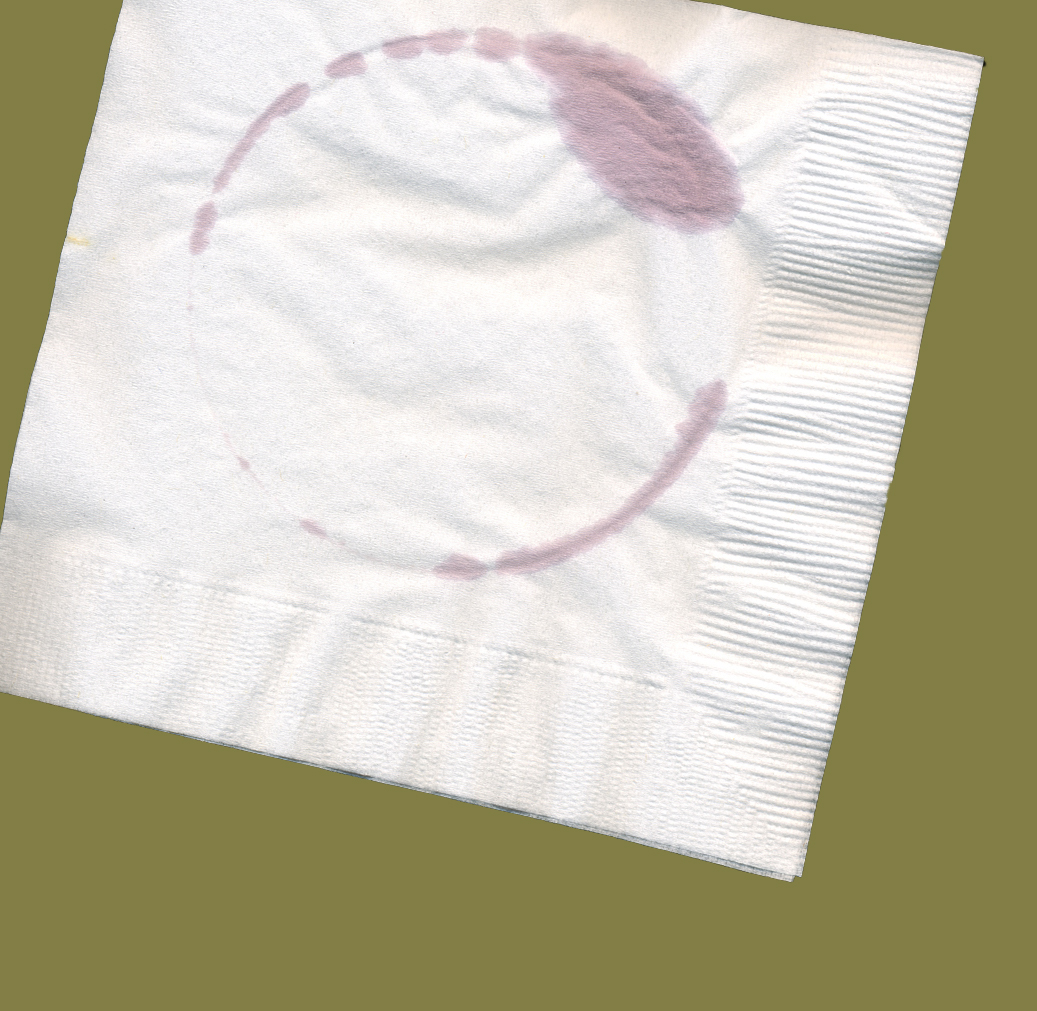
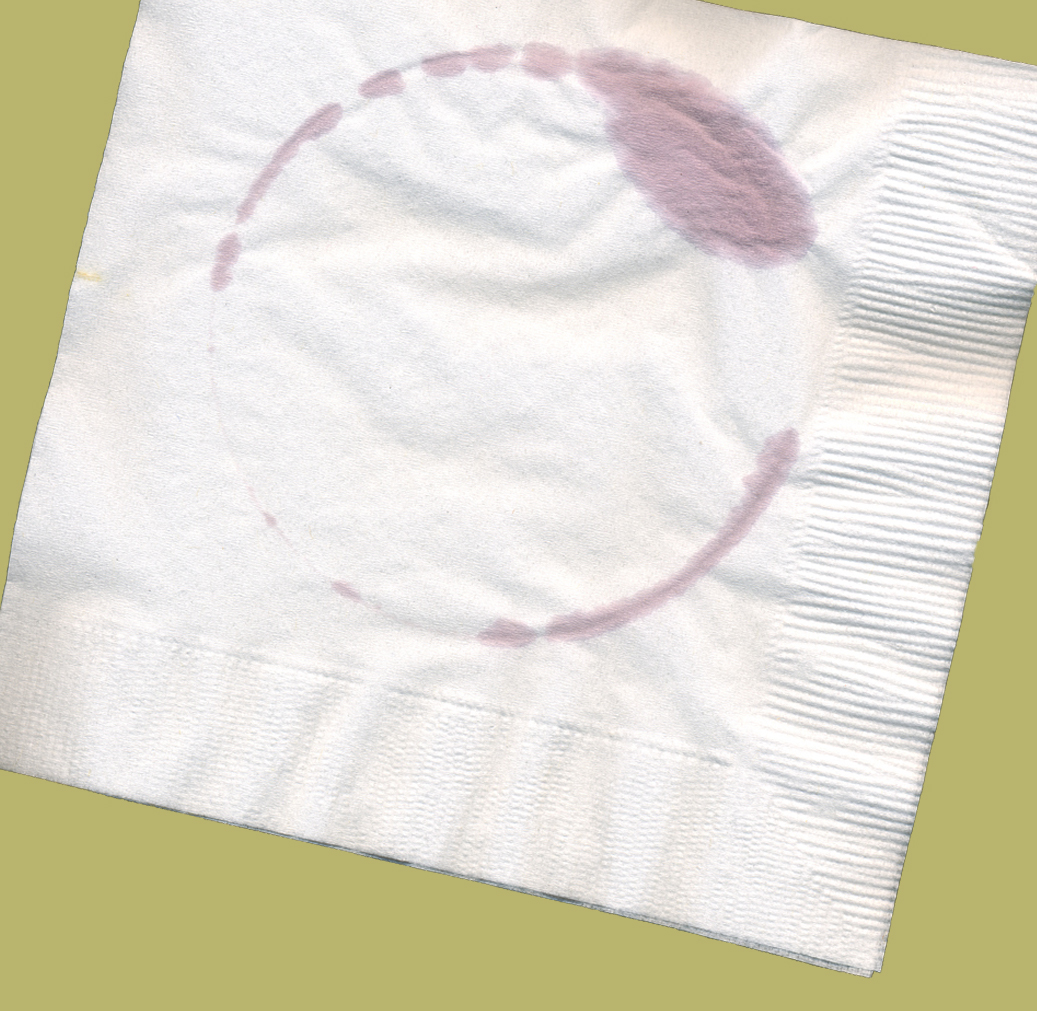
files: Replace cocktail napkin image with one that has a lighter background, so text is more readable, and add a .gitignore file to get rid of pesky .DS_Store file. style: Make minor changes to text styling.

diff --git a/realq/index.html b/realq/index.html
@@ -52,7 +52,7 @@
           <div class="demo-blog__posts mdl-grid">
           <!--Instructions-->
           <div class="mdl-card mdl-cell mdl-cell--10-col" id="intoxicated">
-            <h2>Until you're inoculated, stay intoxicated!</h2>
+            <h1>Until you're inoculated, stay intoxicated!</h1>
             <div id="instructions"><p>Find a cocktail and relax! Search for cocktail recipes below, or click "Random Cocktail" and try something new. Then find a little background music and enjoy.</p>
             </div>
           </div>
@@ -98,7 +98,7 @@
             </div>
             <div class="mdl-card__supporting-text meta meta--fill mdl-color-text--grey-600" >
               <div>
-                <strong id="cocktail-name"></strong>
+                <div id="cocktail-name"></div>
                 </div>
               </div>
           </div>
@@ -106,7 +106,7 @@
           <div class="mdl-card something-else mdl-cell mdl-cell--8-col mdl-cell--3-col-desktop">
             <div class="mdl-card__supporting-text meta meta--fill mdl-color-text--grey-600">
               <div>
-                <strong class="favorite-title">Favorites</strong>
+                <div class="favorite-title">Favorites</div>
               </div>
             </div>
             <div class="mdl-card__media mdl-color--white mdl-color-text--grey-600" id="favorites">
@@ -115,7 +115,7 @@
              <!--BEGIN COCKTAIL RECIPES CARD-->
           <div class="mdl-card mdl-cell mdl-cell--7-col">
             <div class="mdl-card__media mdl-color-text--grey-50" id="recipe">
-              <h1>Cocktail Recipe</h1>
+              <h2>Cocktail Recipe</h2>
             </div>
             <div class="mdl-card__supporting-text meta mdl-color-text--grey-600 recipe">
             </div>
@@ -124,7 +124,7 @@
               <div class="mdl-card mdl-cell mdl-cell--10-col">
               
                 <div class="mdl-card__media mdl-color-text--grey-50 pandemic" >
-                  <h1>Pandemic Player</h1>
+                  <h2>Pandemic Player</h2>
                 
                 </div>
               </div>

diff --git a/realq/styles.css b/realq/styles.css
@@ -57,26 +57,6 @@ body .demo-blog {
   color: white;
 }
 
-h1 {
-  font-size: 1.65rem;
-  /* line-height: 1; */
-  margin: 1%;
-  font-family: "Cinzel", serif;
-  font-size: 24px;
-  font-weight: 900px;
-  color: white;
-}
-
-h2 {
-  font-size: 1.35rem;
-  margin: 2rem;
-  text-align: center;
-  font-family: "Cinzel", serif;
-  font-size: 24px;
-  font-weight: 700;
-  color: #ffb308;
-}
-
 mdl-textfield__input {
   padding-left: 10px;
 }
@@ -219,7 +199,7 @@ p {
       -ms-flex-align: center;
           align-items: center;
 }
-.demo-blog .mdl-card__supporting-text strong {
+.demo-blog .mdl-card__supporting-text {
   font-weight: 700;
   font-family: "Cinzel", serif;
   font-size: 24px;
@@ -278,7 +258,7 @@ p {
           justify-content: space-between;
   font-family: "Cinzel", serif;
   font-size: 20px;
-  color: #ffb308;
+  color: white;
 }
 .demo-blog .meta > *:first-child {
   margin-right: 16px;
@@ -461,5 +441,30 @@ div#recipe.mdl-card__media mdl-color-text--grey-50.pandemic {
   display: flex !important;
 }
 
+h1 {
+  margin: 2rem;
+  text-align: center;
+  font-family: "Cinzel", serif;
+  font-size: 24px;
+  font-weight: 700;
+  color: #ffb308;
+}
 
+h2 {
+  /* line-height: 1; */
+  margin: 1%;
+  text-align: center;
+  font-family: "Cinzel", serif;
+  font-size: 24px;
+  font-weight: 700px;
+  color: white;
+}
 
+div.favorite-title {
+  margin: 1%;
+  text-align: center;
+  font-family: "Cinzel", serif;
+  font-size: 24px;
+  font-weight: 700px;
+  color: white;
+}
